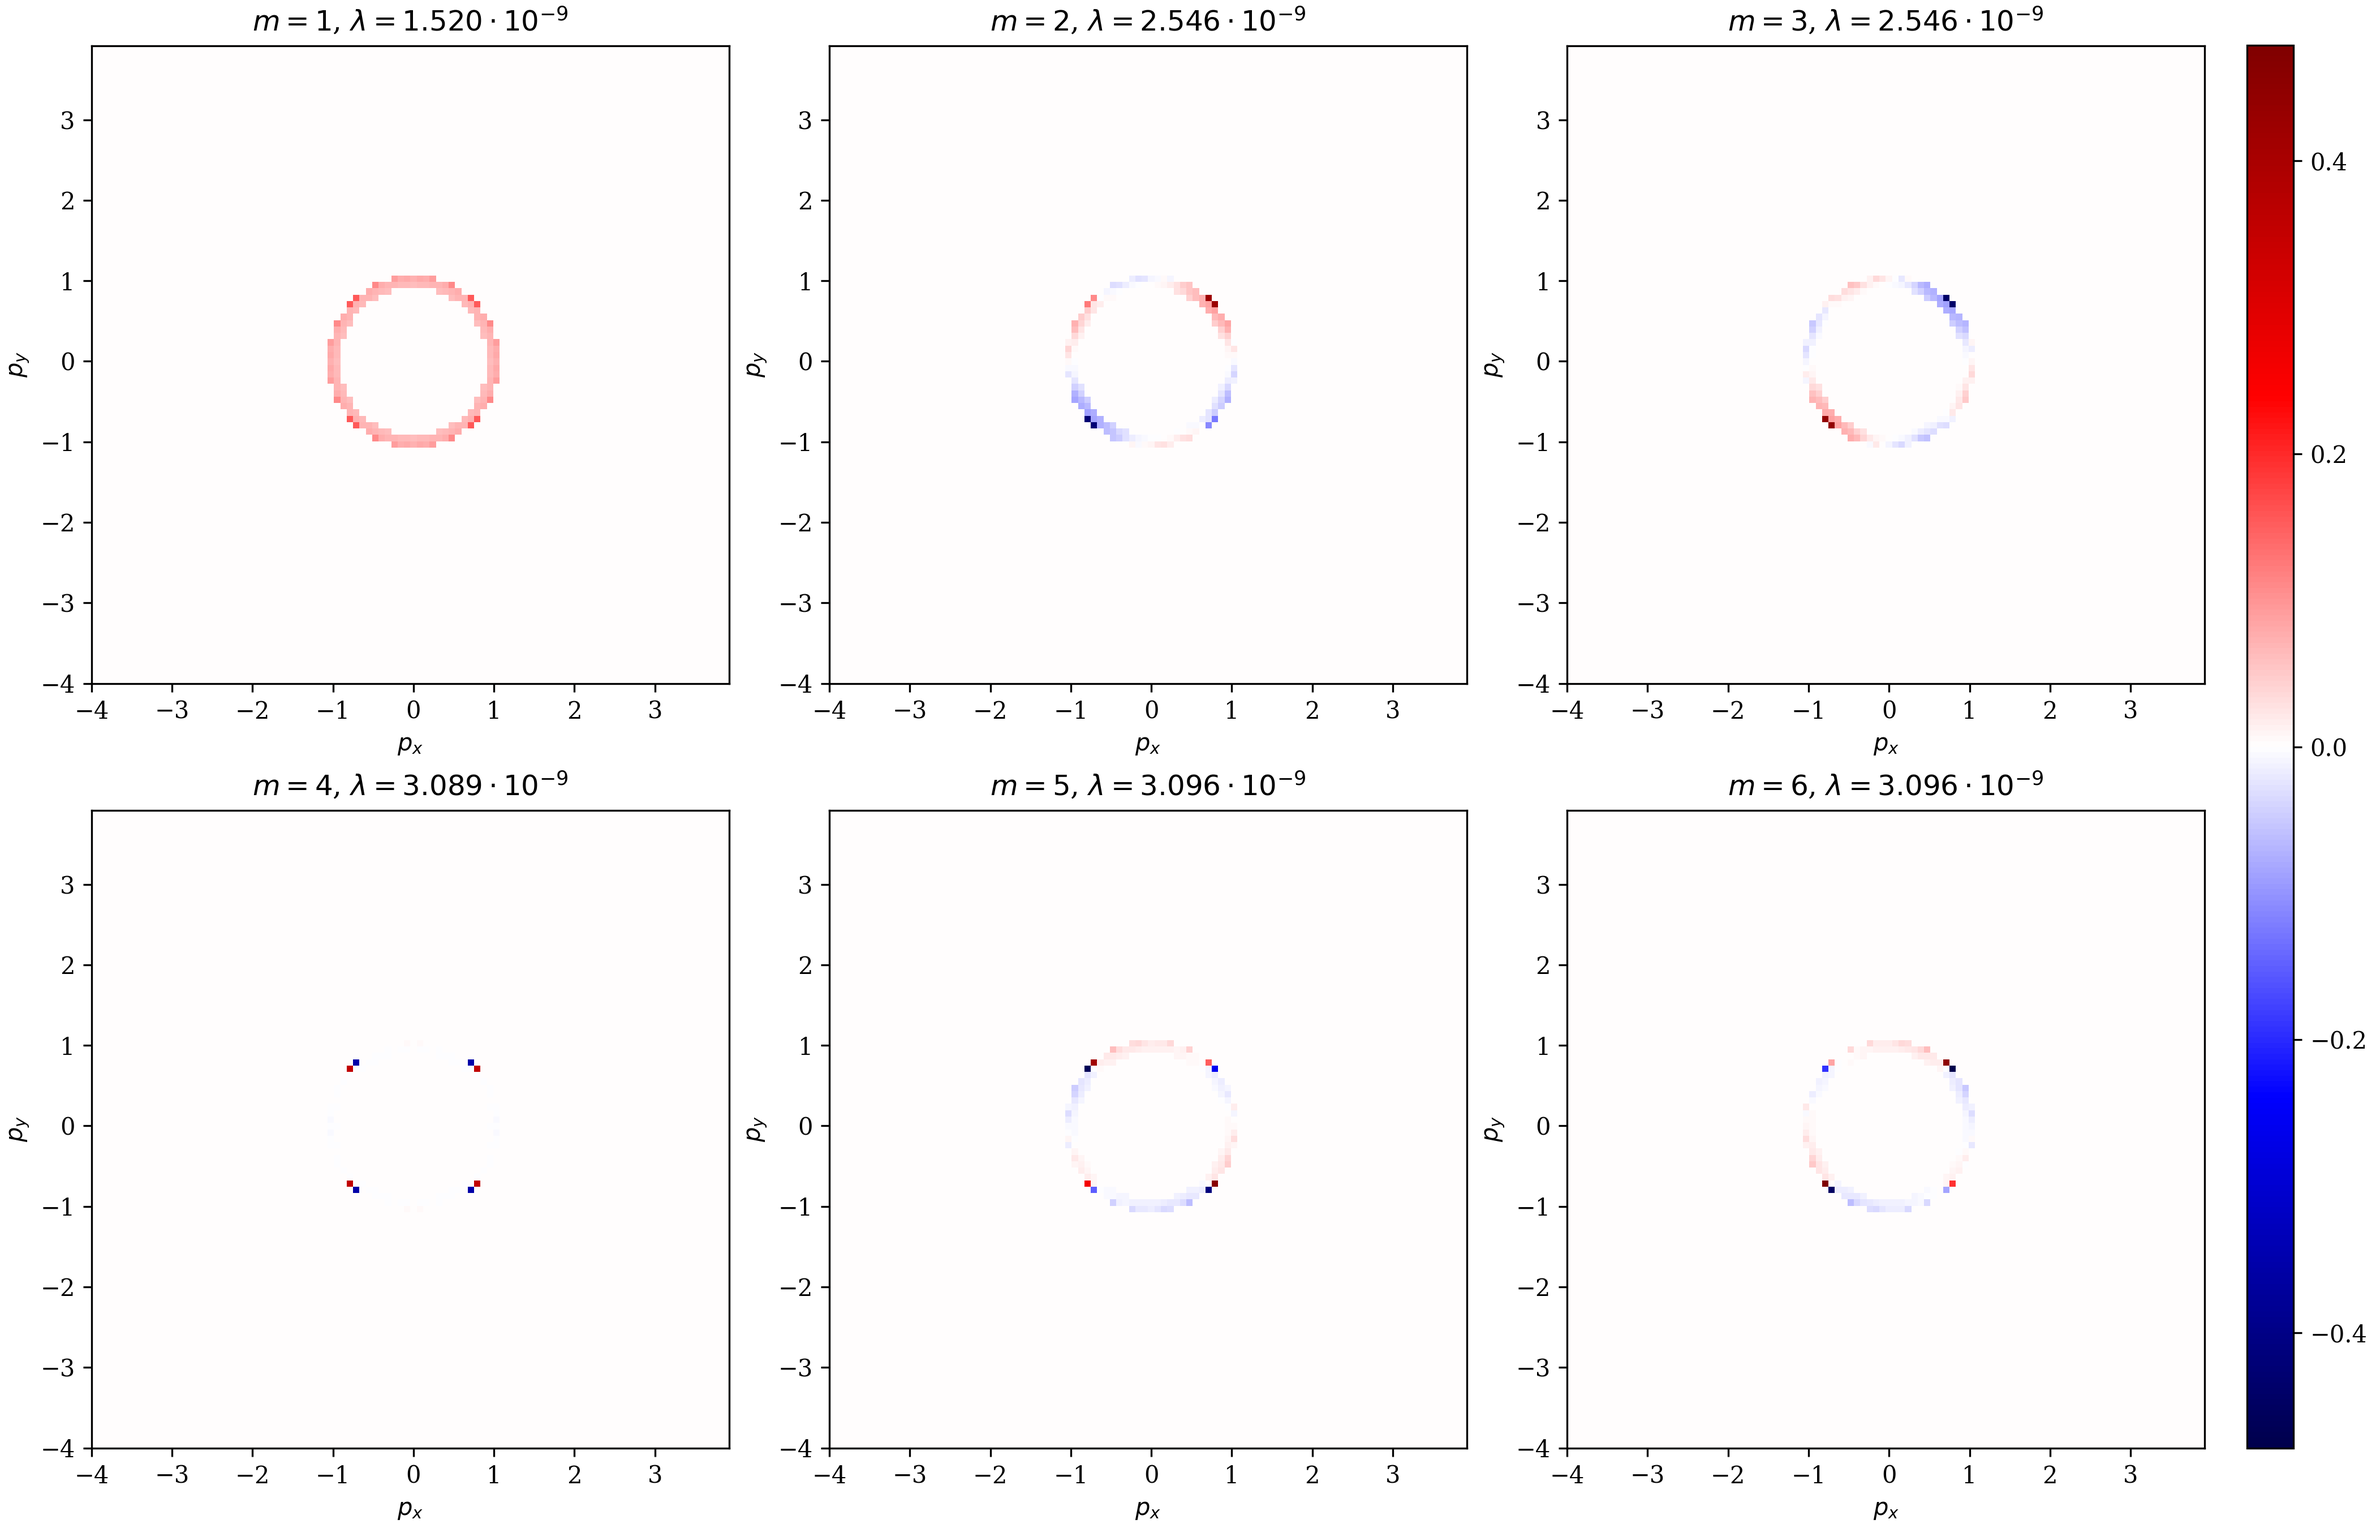
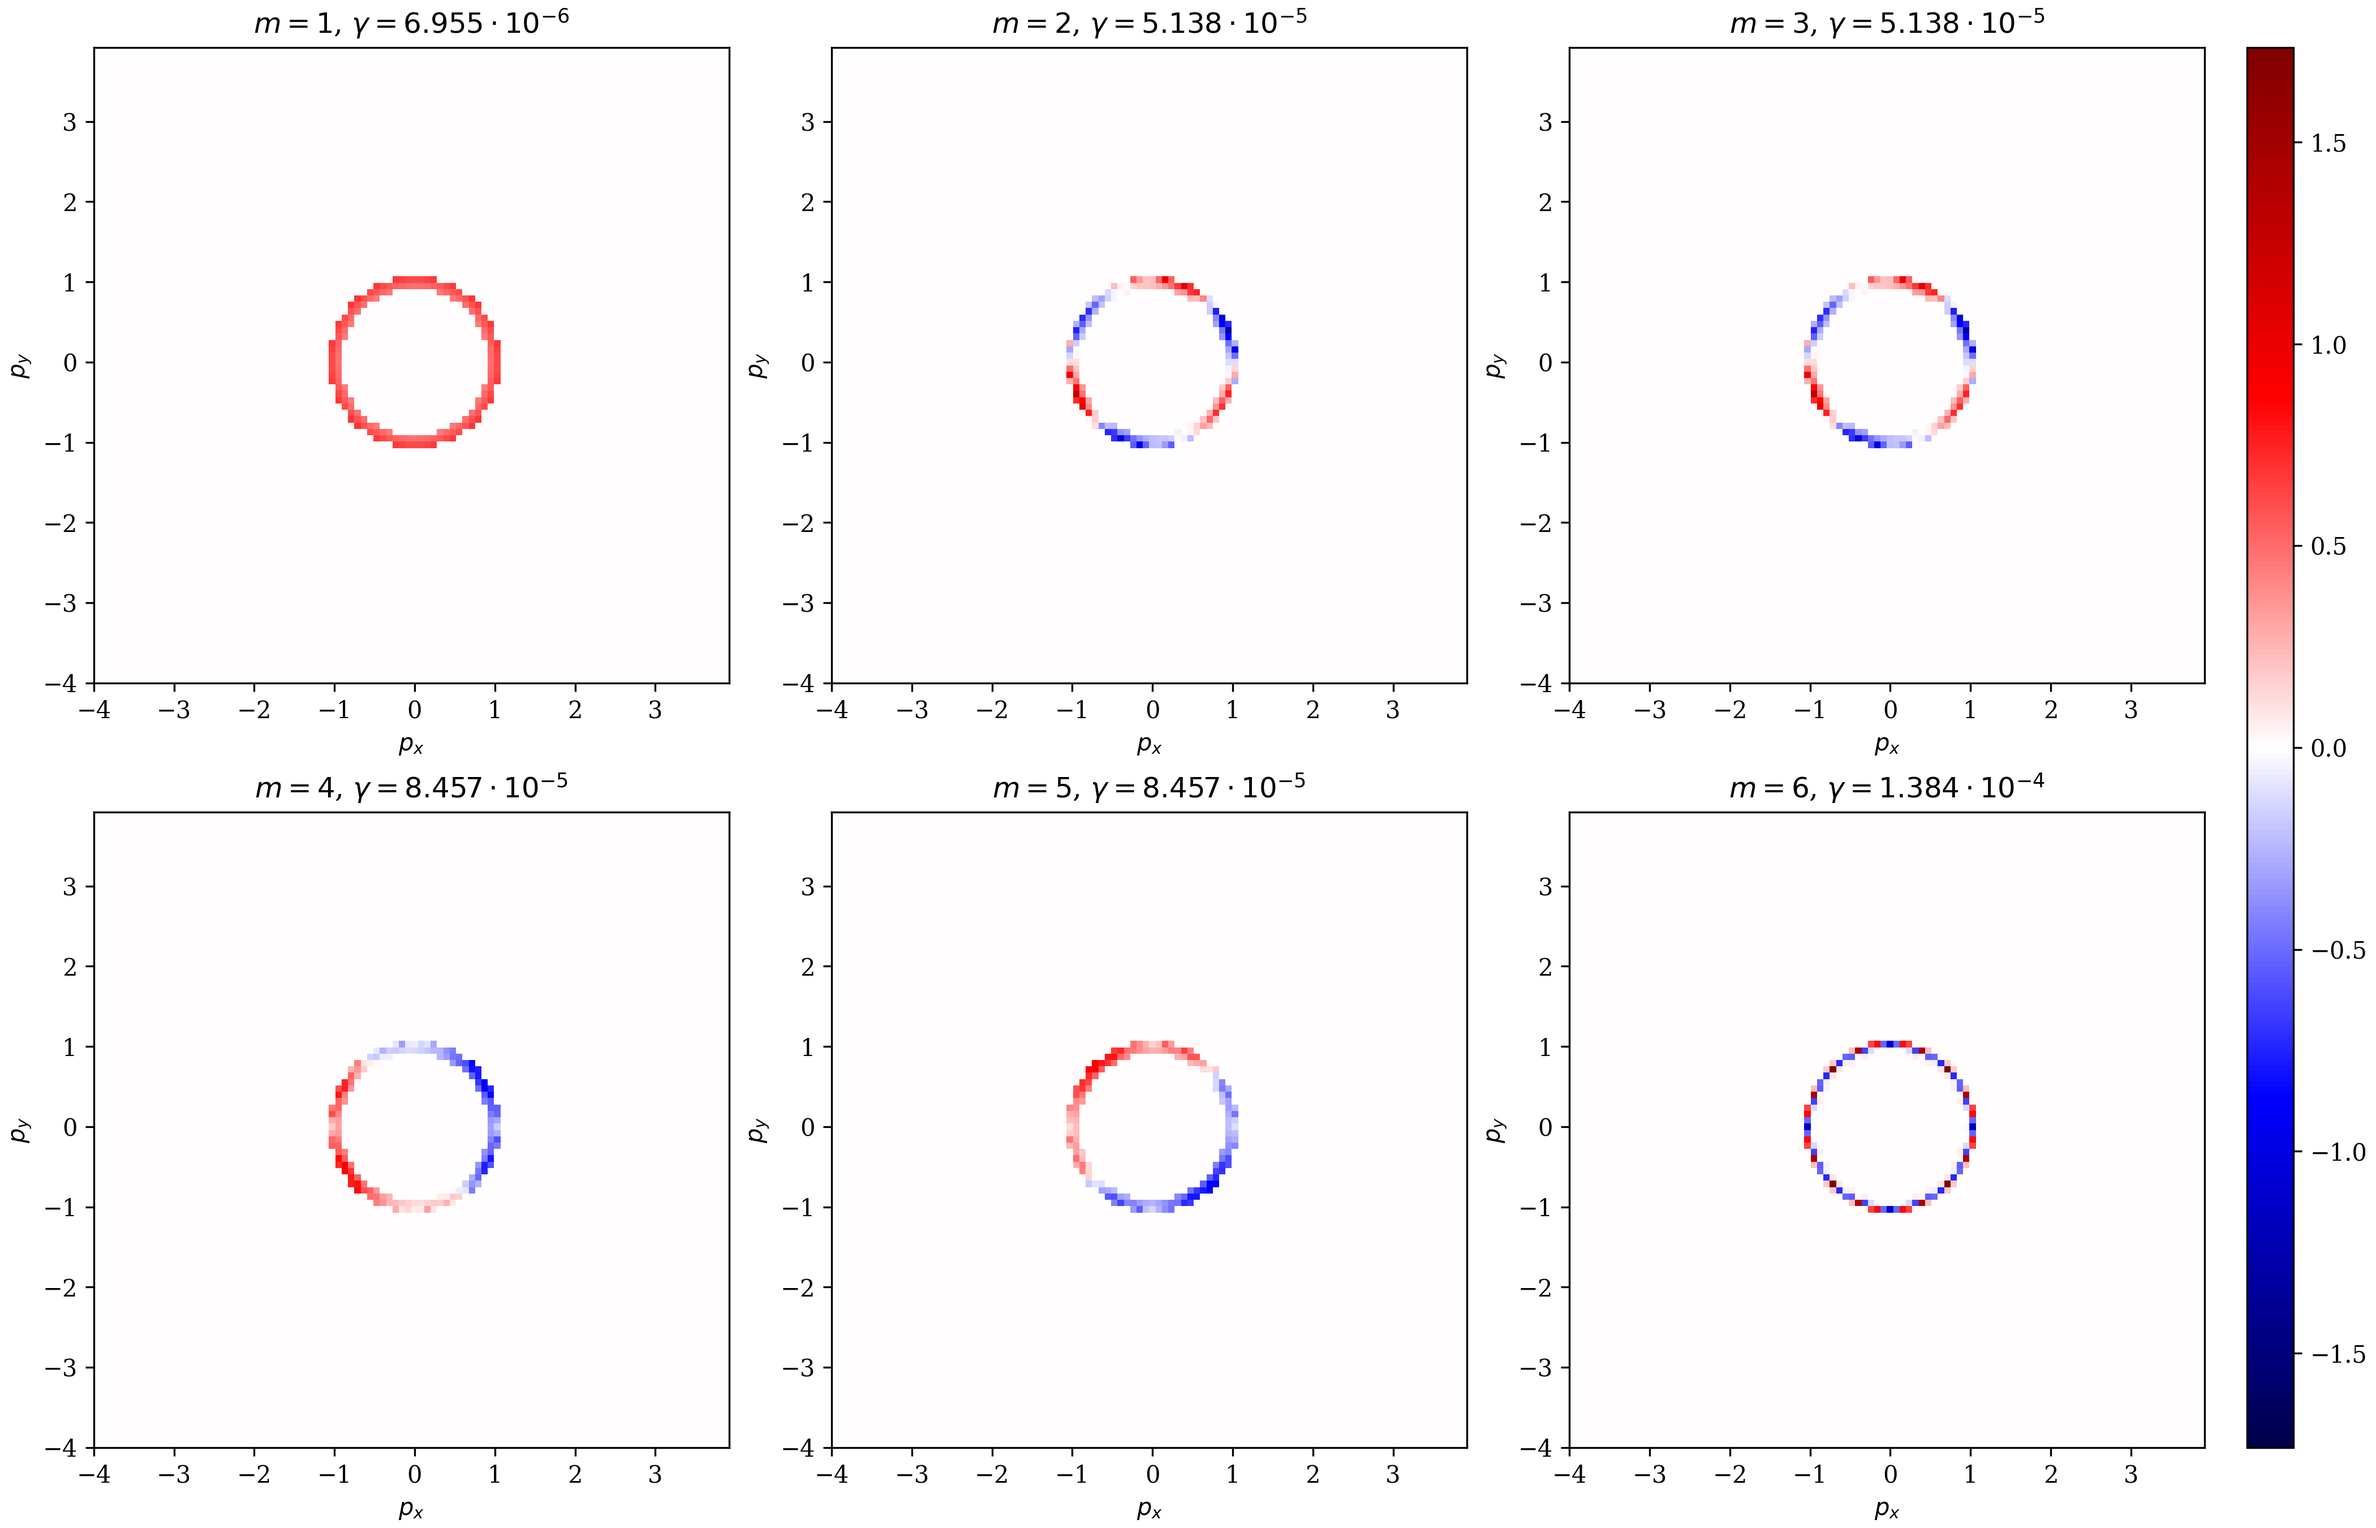
switching to GENERALIZED eigenproblem

diff --git a/kryhin_levitov_2021/collision_integral_direct/Iee_decay_rates_harmonics_plot.py b/kryhin_levitov_2021/collision_integral_direct/Iee_decay_rates_harmonics_plot.py
@@ -8,6 +8,11 @@ Iee_grid_diagnostics.py
 Eigenmodes are computed from the ACTIVE subspace only (meta["active"]) to reduce cost.
 You need SciPy for eigenmodes:
   pip install scipy
+
+IMPORTANT:
+The paper's spectrum is a GENERALIZED eigenproblem:
+  (-M) v = gamma * W v,   W = diag(f(1-f))
+not the ordinary eigenproblem of (-M).
 """
 
 import os
@@ -43,7 +48,7 @@ dp   = 0.08
 Thetas_weight = [1.0, 0.1, 0.01]
 
 # For part (2): choose one temperature that you have already generated a matrix for
-Theta_eigs = 0.01
+Theta_eigs = 0.2
 N_EIG_PLOT = 6              # how many eigenfunctions to plot
 ZERO_TOL = 1e-10            # treat |lambda|<ZERO_TOL as "conserved/zero" mode
 
@@ -177,7 +182,6 @@ def compute_and_plot_eigenmodes():
 
     nx = meta["nx"]
     ny = meta["ny"]
-    # half = meta["half"]
     half = int(meta.get("half", meta["Nmax"] // 2))
     Nstates = nx.size
 
@@ -188,43 +192,60 @@ def compute_and_plot_eigenmodes():
     # Restrict to active subspace
     Maa = M[np.ix_(active, active)]
 
-    # We want decay rates => eigenvalues of A = -M
+    # Build generalized weight matrix W = diag(f(1-f)) on the active subspace
+    f_full = meta.get("f", None)
+    if f_full is None:
+        raise KeyError("meta['f'] not found. Regenerate matrices with f stored in meta.")
+
+    w = f_full[active] * (1.0 - f_full[active])
+    w = np.asarray(w, dtype=np.float64)
+    w = np.clip(w, 0.0, None)
+
+    # Avoid exact zeros in the generalized mass matrix (ARPACK dislikes singular M)
+    w_eps = 1e-30
+    w_safe = np.where(w > 0.0, w, w_eps)
+    W = diags(w_safe, 0, format="csr")
+
+    # Paper spectrum: (-Maa) v = gamma * W v
     A = csr_matrix(-Maa)
 
-    # Regularize a tiny bit to help ARPACK with near-zero modes
-    reg = 1e-14
-    A = A + diags([reg] * A.shape[0], 0, format="csr")
+    # Tiny regularization on A helps convergence near conserved modes
+    regA = 1e-14
+    A = A + diags([regA] * A.shape[0], 0, format="csr")
 
-    # Ask for a few more than needed, then discard near-zero
-    k_calc = min(A.shape[0] - 2, max(N_EIG_PLOT + 8, N_EIG_PLOT))
+    n = A.shape[0]
+    k_calc = min(n - 2, max(N_EIG_PLOT + 8, N_EIG_PLOT))
     if k_calc <= 0:
         raise RuntimeError("Active subspace too small to compute eigenmodes.")
 
-    # "SM" = smallest magnitude (will include near-zero modes)
-    # vals, vecs = eigs(A, k=k_calc, which="SM")
+    # Target slow modes (small gamma). Shift-invert around small sigma.
     sigma = 1e-10
 
     vals, vecs = eigs(
         A,
+        M=W,
         k=k_calc,
-        sigma=sigma,        # target eigenvalues near sigma
-        which="LM",         # after shift-invert, "LM" is what you want
+        sigma=sigma,
+        which="LM",
         tol=1e-8,
         maxiter=20000
     )
 
-    vals = np.real(vals)
-    vecs = np.real(vecs)
+    # Warn if eigenvalues have significant imaginary parts (non-normal / numerical noise)
+    max_im = float(np.max(np.abs(np.imag(vals)))) if vals.size else 0.0
+    max_re = float(np.max(np.abs(np.real(vals)))) if vals.size else 0.0
+    if max_im > 1e-8 * (max_re + 1e-14):
+        print(f"WARNING: eigenvalues have non-negligible imaginary parts: max|Im|={max_im:.3e}")
 
     vals = np.real(vals)
     vecs = np.real(vecs)
 
-    # sort by eigenvalue
+    # Sort by gamma (ascending = slowest first)
     order = np.argsort(vals)
     vals = vals[order]
     vecs = vecs[:, order]
 
-    # remove near-zero modes
+    # Remove near-zero modes (conserved/zero modes)
     keep = np.where(np.abs(vals) > ZERO_TOL)[0]
     if keep.size == 0:
         raise RuntimeError("All computed modes are ~zero. Increase k_calc or change ZERO_TOL.")
@@ -232,15 +253,31 @@ def compute_and_plot_eigenmodes():
     vals = vals[keep]
     vecs = vecs[:, keep]
 
-    # take first N_EIG_PLOT
+    # Take first N_EIG_PLOT
     n_show = min(N_EIG_PLOT, vals.size)
     vals = vals[:n_show]
     vecs = vecs[:, :n_show]
 
+    # Normalize eigenvectors in the generalized inner product: v^T W v = 1
+    for i in range(n_show):
+        v = vecs[:, i]
+        norm2 = float(np.dot(v, w_safe * v))
+        if norm2 <= 0.0:
+            continue
+        vecs[:, i] = v / math.sqrt(norm2)
+
+    # Check generalized orthogonality: G_ij = v_i^T W v_j should be ~delta_ij
+    G = vecs.T @ (w_safe[:, None] * vecs)
+    diagG = np.diag(G)
+    offG = G - np.diag(diagG)
+    max_off = float(np.max(np.abs(offG))) if offG.size else 0.0
+    max_diag_dev = float(np.max(np.abs(diagG - 1.0))) if diagG.size else 0.0
+    print(f"[W-orthogonality] max|offdiag|={max_off:.3e}, max|diag-1|={max_diag_dev:.3e}")
+
     # Embed eigenvectors back into full lattice for plotting
     full_modes = []
     for i in range(n_show):
-        v_active = vecs[:, i]
+        v_active = vecs[:, i].copy()
 
         # sign convention: make max-abs component positive (visual stability)
         j = int(np.argmax(np.abs(v_active)))
@@ -265,20 +302,17 @@ def compute_and_plot_eigenmodes():
     for k in range(n_show):
         grid = values_to_grid(full_modes[k], nx, ny, half, meta["Nmax"])
         grid_valid = grid[~np.isnan(grid)]
-        if len(grid_valid) > 0:
-            vmax_abs = np.max(np.abs(grid_valid))
+        if grid_valid.size > 0:
+            vmax_abs = float(np.max(np.abs(grid_valid)))
             global_vmax_abs = max(global_vmax_abs, vmax_abs)
-    
+
     if global_vmax_abs > 0:
         global_vmin = -global_vmax_abs
         global_vmax = global_vmax_abs
     else:
         global_vmin, global_vmax = -0.1, 0.1
-    
-    # Create common norm for all plots
-    global_norm = TwoSlopeNorm(vmin=global_vmin, vcenter=0, vmax=global_vmax)
 
-    # Store the last image for colorbar
+    global_norm = TwoSlopeNorm(vmin=global_vmin, vcenter=0, vmax=global_vmax)
     im_common = None
 
     for k in range(nrows * ncols):
@@ -288,28 +322,29 @@ def compute_and_plot_eigenmodes():
             continue
 
         grid = values_to_grid(full_modes[k], nx, ny, half, meta["Nmax"])
-        
-        # Use 'seismic' colormap: high contrast, designed for visualizing small deviations from zero
-        # Dark red/blue at extremes, white at center - makes small non-zero values very visible
-        im = ax.imshow(grid.T, origin="lower", extent=[pmin, pmax, pmin, pmax], aspect="equal", cmap='seismic', norm=global_norm)
-        im_common = im  # Store for common colorbar
-        print(grid.T[grid.T != 0])
-        lambda_str = format_scientific_latex(vals[k], precision=3)
-        ax.set_title(rf"$m={k+1}$, $\lambda = {lambda_str}$")
+        im = ax.imshow(
+            grid.T,
+            origin="lower",
+            extent=[pmin, pmax, pmin, pmax],
+            aspect="equal",
+            cmap="seismic",
+            norm=global_norm
+        )
+        im_common = im
+
+        gamma_str = format_scientific_latex(vals[k], precision=3)
+        ax.set_title(rf"$m={k+1}$, $\gamma = {gamma_str}$")
         ax.set_xlabel("$p_x$")
         ax.set_ylabel("$p_y$")
 
-    # Add single common colorbar for all plots
     if im_common is not None:
         cbar = fig.colorbar(im_common, ax=axes, fraction=0.03, pad=0.02, aspect=30)
         cbar.ax.tick_params(labelsize=10)
 
-    # fig.suptitle(rf"Eigenfunctions on momentum lattice (T/E_F={Theta_eigs})", y=1.02)
     fig.savefig(f"eigenmodes_T{Theta_eigs:.6g}.png", dpi=300)
     fig.savefig(f"eigenmodes_T{Theta_eigs:.6g}.svg")
     print(f"Saved: eigenmodes_T{Theta_eigs:.6g}.png")
     print(f"Saved: eigenmodes_T{Theta_eigs:.6g}.svg")
-    # plt.show()
 
 
 if __name__ == "__main__":

diff --git a/kryhin_levitov_2021/collision_integral_direct/Iee_matrix_bruteforce_generate.py b/kryhin_levitov_2021/collision_integral_direct/Iee_matrix_bruteforce_generate.py
@@ -247,6 +247,7 @@ def build_matrix_for_theta(Theta: float):
     meta = {
         "Theta": float(Theta),
         "Nmax": int(Nmax),
+        "half": int(half),
         "dp": float(dp),
         "lambda": float(LAMBDA),
         "V2": float(V2),
